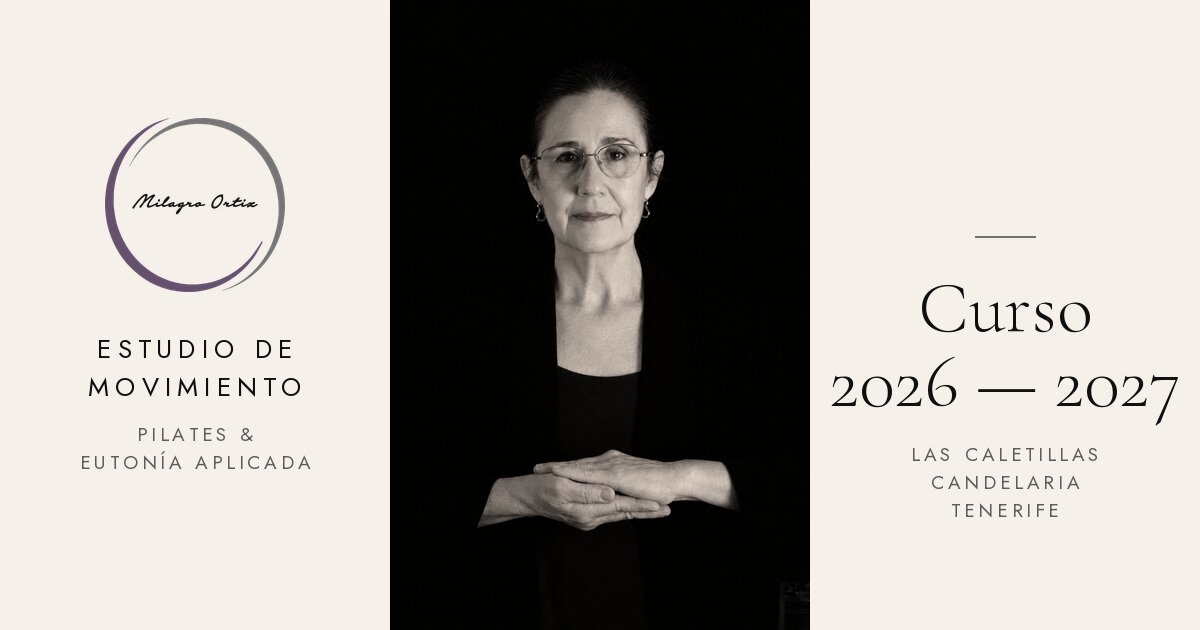
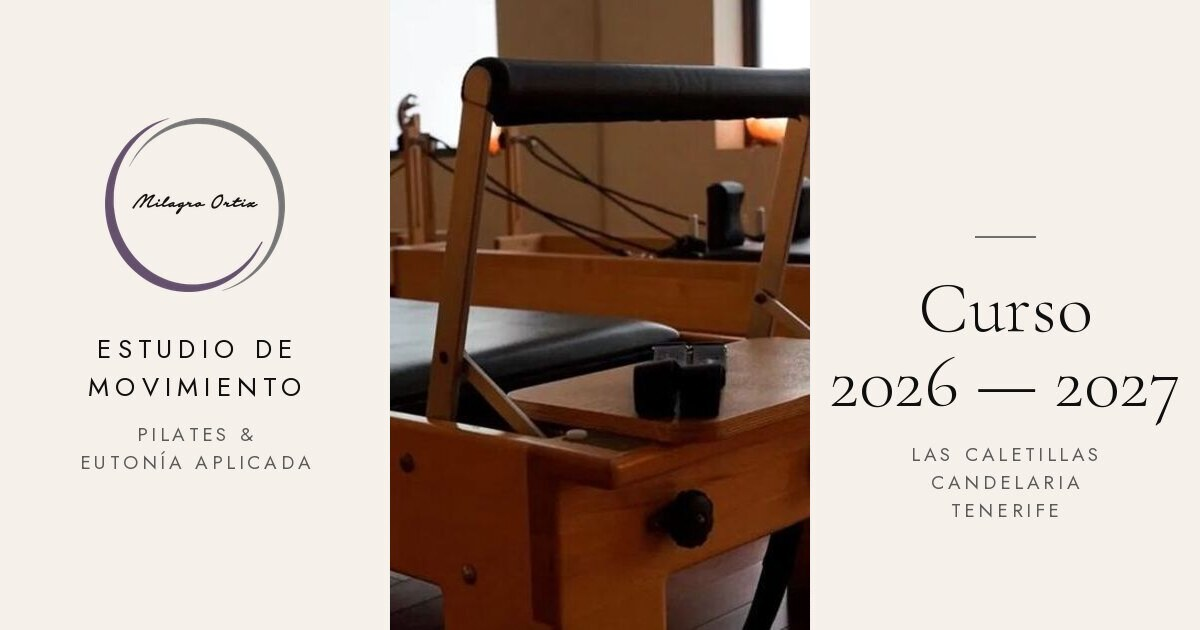
Portada sin retrato (provisorio, pedido de Milagro); og.jpg con el estudio

diff --git a/index.html b/index.html
@@ -12,16 +12,16 @@
 <meta property="og:title" content="Estudio de Movimiento · Curso 2026 – 2027">
 <meta property="og:description" content="Pilates y Eutonía Aplicada con Milagro Ortiz. Las Caletillas, Candelaria, Tenerife. Precios, condiciones y contacto del Estudio.">
 <meta property="og:url" content="https://estudiodemovimiento.com/">
-<meta property="og:image" content="https://estudiodemovimiento.com/og.jpg">
-<meta property="og:image:secure_url" content="https://estudiodemovimiento.com/og.jpg">
+<meta property="og:image" content="https://estudiodemovimiento.com/og.jpg?v=estudio">
+<meta property="og:image:secure_url" content="https://estudiodemovimiento.com/og.jpg?v=estudio">
 <meta property="og:image:type" content="image/jpeg">
 <meta property="og:image:width" content="1200">
 <meta property="og:image:height" content="630">
-<meta property="og:image:alt" content="Retrato en blanco y negro de Milagro Ortiz junto al nombre del Estudio de Movimiento, Curso 2026 – 2027.">
+<meta property="og:image:alt" content="Emblema de Milagro Ortiz y una cama reformer del Estudio de Movimiento, Curso 2026 – 2027.">
 <meta name="twitter:card" content="summary_large_image">
 <meta name="twitter:title" content="Estudio de Movimiento · Curso 2026 – 2027">
 <meta name="twitter:description" content="Pilates y Eutonía Aplicada con Milagro Ortiz. Las Caletillas, Candelaria, Tenerife.">
-<meta name="twitter:image" content="https://estudiodemovimiento.com/og.jpg">
+<meta name="twitter:image" content="https://estudiodemovimiento.com/og.jpg?v=estudio">
 <meta name="theme-color" content="#F5F1EA">
 <link rel="preconnect" href="https://fonts.googleapis.com">
 <link rel="preconnect" href="https://fonts.gstatic.com" crossorigin>
@@ -103,6 +103,9 @@
   }
   .portada .retrato img { width: 100%; }
   .portada .marca { padding-top: clamp(2.5rem, 8vw, 4rem); }
+  /* Portada sin retrato: el emblema ocupa la primera pantalla, centrado. */
+  .portada.sin-retrato { min-height: 100svh; display: flex; align-items: center; justify-content: center; padding-top: 0; }
+  .portada.sin-retrato .marca { padding-top: 0; }
   .emblema { width: clamp(11rem, 44vw, 15rem); margin: 0 auto 1.75rem; }
   .estudio {
     font-family: var(--cuerpo);
@@ -241,10 +244,12 @@
 <body>
 
 <!-- ============ PORTADA ============ -->
-<section class="portada">
+<section class="portada sin-retrato">
+  <!-- Retrato quitado provisoriamente (5-oct-2026, pedido de Milagro). Para volver: descomentar y sacar la clase sin-retrato.
   <div class="retrato">
     <img src="img/retrato.jpg" width="1000" height="1500" alt="Milagro Ortiz, retrato en blanco y negro sobre fondo negro, con gafas, mirando de frente y con las manos cruzadas sobre el pecho." fetchpriority="high">
   </div>
+  -->
   <div class="marco marca">
     <img class="emblema" src="img/emblema.png" width="600" height="579" alt="Emblema de Milagro Ortiz: su firma dentro de un círculo violeta y gris.">
     <h1 class="estudio">Estudio de Movimiento<small>Pilates &amp; Eutonía Aplicada</small></h1>
